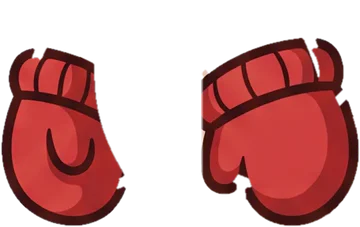
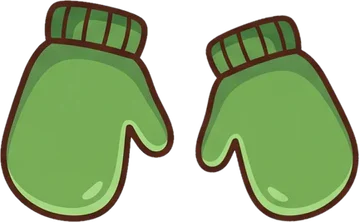
Kino Ne Giysin?: basparmakli kis eldivenleri (Gemini), istek balonu daha uzun, titreme pozu, uygulama derlemesi testi, ORTAK_NOTLAR

diff --git a/tests/e2e/giysin-uygulama.spec.ts b/tests/e2e/giysin-uygulama.spec.ts
@@ -1,0 +1,73 @@
+/**
+ * Kino Ne Giysin? uygulama derlemesinde (Capacitor benzeri sunucu): `npm run build:app` çıktısı (dist/) klasör
+ * adreslerini index.html'e çözmeyen, bilinmeyen her yolu kökteki index.html'e düşüren bir sunucudan açılır.
+ * Menüdeki karta dokunulur (adres açıkça .../index.html olmalı, yoksa menüye düşer), oda açılır, perde, dolap; dış
+ * sahne ve albüm resimleri yerelde. Yalnız UYGULAMA_DIST verilince koşar (ör. UYGULAMA_DIST=dist, build:app'ten sonra).
+ */
+import { createReadStream, existsSync, statSync } from 'node:fs';
+import { createServer, type Server } from 'node:http';
+import { extname, join, normalize, resolve } from 'node:path';
+import { expect, test } from '@playwright/test';
+
+const KOK = process.env.UYGULAMA_DIST ? resolve(process.env.UYGULAMA_DIST) : '';
+const PORT = 4332;
+const TUR: Record<string, string> = {
+  '.html': 'text/html; charset=utf-8',
+  '.js': 'text/javascript',
+  '.css': 'text/css',
+  '.json': 'application/json',
+  '.webp': 'image/webp',
+  '.png': 'image/png',
+  '.svg': 'image/svg+xml',
+  '.mp3': 'audio/mpeg',
+  '.woff2': 'font/woff2',
+  '.woff': 'font/woff',
+};
+let sunucu: Server | null = null;
+
+test.skip(!KOK || !existsSync(join(KOK, 'index.html')), 'UYGULAMA_DIST (build:app çıktısı) yok');
+
+test.beforeAll(async () => {
+  sunucu = createServer((istek, yanit) => {
+    const yol = decodeURIComponent(new URL(istek.url ?? '/', 'http://x').pathname);
+    let dosya = normalize(join(KOK, yol));
+    if (!dosya.startsWith(KOK) || !existsSync(dosya) || statSync(dosya).isDirectory()) dosya = join(KOK, 'index.html');
+    yanit.writeHead(200, { 'content-type': TUR[extname(dosya)] ?? 'application/octet-stream' });
+    createReadStream(dosya).pipe(yanit);
+  });
+  await new Promise<void>((r) => sunucu!.listen(PORT, r));
+});
+test.afterAll(() => new Promise<void>((r) => (sunucu ? sunucu.close(() => r()) : r())));
+
+test('Uygulama derlemesi: menüden Kino Ne Giysin? açılır (kış ücretsiz), oda, dış sahne, albüm', async ({ page }) => {
+  test.skip(test.info().project.name !== 'iphone', 'bir kez yeter');
+  const sorunlar: string[] = [];
+  page.on('console', (m) => m.type() === 'error' && sorunlar.push(`konsol: ${m.text()}`));
+  page.on('pageerror', (e) => sorunlar.push(`hata: ${String(e)}`));
+  page.on('response', (r) => r.status() >= 400 && sorunlar.push(`${r.status()} ${r.url()}`));
+  await page.goto(`http://localhost:${PORT}/index.html?test=1&uygulama=ios`);
+  const kart = page.locator('.ug-kart[data-oyun="giysin"]');
+  await expect(kart).toHaveAttribute('href', /giysin\/index\.html$/);
+  // ilk mevsim ücretsiz: kilit yok
+  await expect(kart.locator('.mk-kilit')).toHaveCount(0);
+  await kart.click();
+  await expect(page).toHaveURL(/giysin\/index\.html/);
+  await expect(page.locator('.gy-ekran')).toHaveCount(1);
+  await expect.poll(() => page.locator('.gy-ekran').getAttribute('data-adim'), { timeout: 20_000 }).toBe('perde');
+  await page.locator('.gy-pencere').click({ force: true });
+  await expect.poll(() => page.locator('.gy-ekran').getAttribute('data-adim'), { timeout: 20_000 }).toBe('dolap');
+  await page.locator('.gy-dolap').click({ force: true });
+  await expect.poll(() => page.locator('.gy-ekran').getAttribute('data-adim'), { timeout: 20_000 }).toBe('giyin');
+  await page.waitForTimeout(500);
+  const bozuk = () => page.evaluate(() => [...document.images].filter((i) => i.complete && i.naturalWidth === 0 && i.getAttribute('src')).map((i) => i.src));
+  expect(await bozuk()).toEqual([]);
+  await page.screenshot({ path: 'tests/screens/giysin-uygulama.png' });
+  // dış sahne ve albüm (test kısayolu): resimler yerelde
+  await page.goto(`http://localhost:${PORT}/giysin/index.html?test=1&ekran=disari`);
+  await expect(page.locator('.gy-son.acik')).toHaveCount(1, { timeout: 15_000 });
+  expect(await bozuk()).toEqual([]);
+  await page.locator('.gy-album-dugme').click();
+  await expect(page.locator('.gy-album-sayfa.kis.dolu')).toHaveCount(1);
+  expect(await bozuk()).toEqual([]);
+  expect(sorunlar).toEqual([]);
+});

diff --git a/giysin/src/oda.ts b/giysin/src/oda.ts
@@ -537,8 +537,9 @@ export function odaEkrani(app: Uygulama): Ekran {
     balonKonum();
     balon.classList.add('acik');
     void oynat(balon, [{ transform: 'scale(0.2)', opacity: 0 }, { transform: 'scale(1.08)', opacity: 1, offset: 0.7 }, { transform: 'scale(1)', opacity: 1 }], 480, { easing: 'ease-out', fill: 'forwards' });
-    await kinoDe(K.istek);
-    await bekle(700);
+    // balon en az 2,4 sn görünür (ses kısa ya da kapalı olsa da çocuk resmi görsün)
+    await Promise.all([kinoDe(K.istek), bekle(2400)]);
+    await bekle(400);
     void oynat(balon, [{ transform: 'scale(1)', opacity: 1 }, { transform: 'scale(0.6)', opacity: 0 }], 300, { fill: 'forwards' });
     adimaGec('perde');
     pencere.classList.add('isaretli');

diff --git a/giysin/src/giysin.css b/giysin/src/giysin.css
@@ -8,6 +8,7 @@
   opacity: 0;
   pointer-events: none;
   transform-origin: 50% 92%;
+  scale: 1.07;
 }
 .gy-kok {
   position: fixed;

diff --git a/ORTAK_NOTLAR.md b/ORTAK_NOTLAR.md
@@ -360,3 +360,5 @@ Gelenler bağlandı: davul, agil, garaj, meyve-sepeti-bos, kemik, ayakkabi, kavu
 - 2026-10-03 KODCU (asıl logo + mağaza görüntüleri): Barış'ın verdiği MINKINO logosu (MIN pembe, KINO yeşil) her yerde: ana menü başlığı, açılış (#acilis + yerel splash: scripts/uygulama/splash-tasarla.cjs → acilis-gorseli.mjs), abonelik başlığı, Ebeveyn Köşesi, Çizgi Filmler tabelası ve film açılış kartı, Kartlar açılışı. Tek yardımcı src/ui/logo.ts → minkinoLogo('sade'|'kenarli'): açık/krem zeminde sade, renkli/resimli zeminde beyaz kenarlı. Eski gökkuşağı 'minkino' (logo-minkino.png, logo-minkino.cjs) silindi; geri getirilmesin. Mağaza görüntüleri: 01 (uygulama derlemesinden yeni menü) ve 05 (logolu Çizgi Filmler) yeniden çekildi, yeni 07 Okula Hazırım (rakam çizme; 'Okula hazırlık: sayılar, harfler' / 'Ready for school: numbers & letters'); ekip/illustrator/magaza-cekim.cjs artık etkileşimli çekim yapabiliyor.
 
 - 2026-10-03 KODCU (Kelime Köprüsü, main birleştirildi): köprü taşlarında da uygulamadaki kilit rozeti (kilitleriKur, Sayı Bahçesi gibi; ilk taş ücretsiz). Görsel yuvaları kendiliğinden bağlanır, beklenen adlar (assets/okul/kelime/): cikartma-{dinle,hecele,tersi,boya,grup,eksik}.webp (çıkartmalar, kare, tek nesne), rozet-kelime.webp (Kelime Ustası rozeti, rozet-sayi ile aynı tuval 300×360), kopru-senlik.webp (karşı yakadaki şenlik: flama ve balonlar, şeffaf, köprü görselinin sağ üst yarısına oturur). Gelmeyenin yerine hazır görsellerden kompozisyon çıkar.
+
+- 2026-10-06 KODCU (Kino Ne Giysin?, /giysin/): Kış · Kardan adam turu baştan sona (istek balonu, perde dalgası + 3 katman manzara ve kar, dolap, Kino iskeletine oturan 8 giysi, tepkiler: şortla buz sarkıtı, montla sıcacık, botun üstüne çorap, bere ayağa, gözlük buğusu; ayna, kapı, kardan adam sahnesi, polaroid, albüm). Menüde 9. kart (Pasta son sırada; ızgara 2×5 / 5×2 / 3×3). Erişim: giysin/kis ücretsiz, giysin/* abonelik. Bölüm 9 kararları: sürükleme + 8 sn sonra ipucu parlar, dokununca uçar; Kino tişörtle başlar, 5 parça gerekli (atkı serbest); dış sahne yalnız hepsi tamamken. KALAN İŞ: diğer 3 mevsim (Gemini ilkbaharı çiziyor), sıcak/terleme tepkisi (yaz), uygulamada ses kayıtları CI ile.
